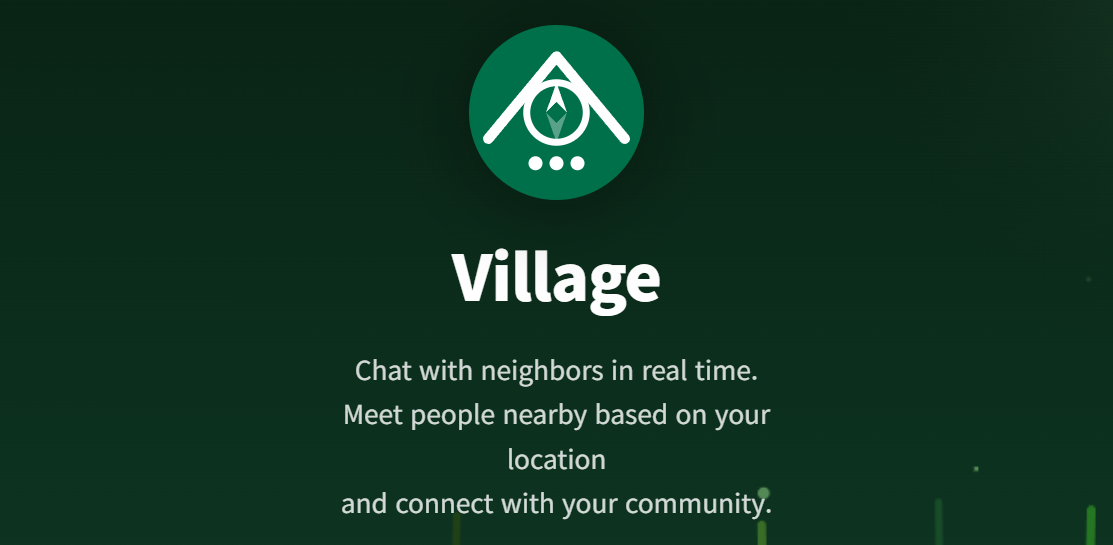
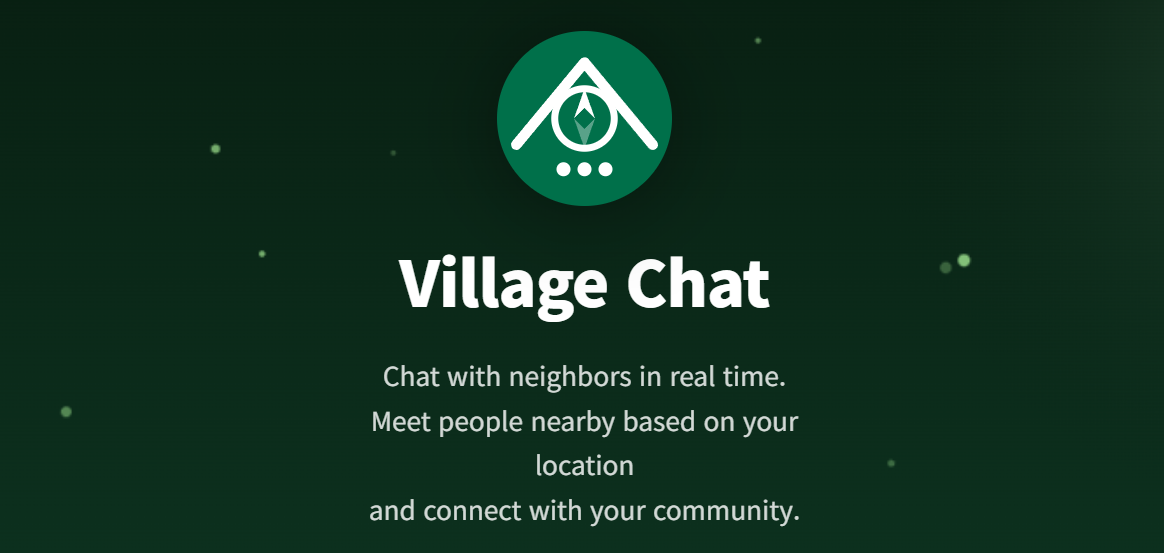
Add files via upload

diff --git a/index.html b/index.html
@@ -977,6 +977,7 @@ let currentLocation = { gu: '', dong: '' };
 let currentRoom = null;
 let chatBackTarget = 'menuScreen';
 let currentRoomMembers = [];
+let currentOnlineCount = 0;
 let unsubscribe = null;
 let lastDate = '';
 let selectedGender = '';
@@ -3068,15 +3069,20 @@ function joinPresence(roomId) {
       const ts = data.ts;
       if (ts && (ts.toDate ? ts.toDate() : new Date(ts)) > cutoff) onlineNicks.add(data.nick);
     });
+    currentOnlineCount = onlineNicks.size;
     const el = document.getElementById('onlineCount');
     if (!el) return;
+    const isInteractive = currentRoom?.isDM || currentRoom?.isCustom;
     const total = currentRoomMembers.length;
-    if (total > 0) {
+    if (isInteractive && total > 0) {
       el.textContent = '👥 ' + onlineNicks.size + '/' + total;
     } else {
       el.textContent = '👥 ' + onlineNicks.size + t('members');
     }
-    renderParticipantList(onlineNicks);
+    el.style.cursor = isInteractive ? 'pointer' : 'default';
+    el.onmouseenter = isInteractive ? function() { this.style.background = 'rgba(255,255,255,0.12)'; } : null;
+    el.onmouseleave = isInteractive ? function() { this.style.background = 'none'; } : null;
+    if (isInteractive) renderParticipantList(onlineNicks);
   });
 }
 
@@ -3154,8 +3160,12 @@ function enterChat(roomId, title, sub, badge, backTarget, isDM = false, isCustom
       if (!initialSnapDone) {
         initialSnapDone = true;
         el.innerHTML = ''; lastDate = '';
-        if (isDM && snap.empty) {
-          window._addDoc(colRef, { type:'system', text: profile.nickname + '님이 입장했습니다', ts: new Date() });
+        if (isDM && !snap.empty) {
+          const enteredKey = 'dnTalk_entered_' + roomId;
+          if (!localStorage.getItem(enteredKey)) {
+            window._addDoc(colRef, { type:'system', text: profile.nickname + '님이 입장했습니다', ts: new Date() });
+          }
+          localStorage.setItem(enteredKey, '1');
         }
       }
       snap.docChanges().forEach(ch => {
@@ -3177,10 +3187,7 @@ function enterChat(roomId, title, sub, badge, backTarget, isDM = false, isCustom
         if (snap.exists() && Array.isArray(snap.data().members)) {
           currentRoomMembers = snap.data().members;
           const el = document.getElementById('onlineCount');
-          if (el && el.textContent) {
-            const onlineStr = el.textContent.replace('👥 ', '').split('/')[0];
-            el.textContent = '👥 ' + onlineStr + '/' + currentRoomMembers.length;
-          }
+          if (el) el.textContent = '👥 ' + currentOnlineCount + '/' + currentRoomMembers.length;
         }
       }).catch(() => {});
     } else {
@@ -3293,6 +3300,7 @@ function leaveDm(dmId, partnerNick, e) {
   const msgs = JSON.parse(localStorage.getItem('dnTalk_lastMsgs') || '{}');
   delete msgs[dmId];
   localStorage.setItem('dnTalk_lastMsgs', JSON.stringify(msgs));
+  localStorage.removeItem('dnTalk_entered_' + dmId);
   showDmList();
 }
 
@@ -3611,7 +3619,7 @@ function showCustomRoomList() {
       item.innerHTML = `
         <div class="dm-item-avatar">${avatarHtml}</div>
         <div class="dm-item-info">
-          <div class="dm-item-name" style="display:flex;align-items:center;gap:4px">${esc(room.name)}${unreadBadge}</div>
+          <div class="dm-item-name" style="display:flex;align-items:center;gap:4px">${esc(room.name)}<span id="cmc_${room.id}" style="font-size:11px;color:var(--c-muted);font-weight:400"></span>${unreadBadge}</div>
           ${subText}
         </div>
         <div class="dm-item-actions">
@@ -3619,6 +3627,13 @@ function showCustomRoomList() {
           <button class="dm-action-btn" title="${t('leave_chat')}" onclick="leaveCustomRoom('${room.id}','${esc(room.name)}',event)">🚪</button>
         </div>`;
       el.appendChild(item);
+      if (window._firebaseReady) {
+        window._getDoc(window._doc(window._db, 'customRooms', room.id)).then(rsnap => {
+          const cnt = rsnap.exists() ? (rsnap.data().members || []).length : 0;
+          const cntEl = document.getElementById('cmc_' + room.id);
+          if (cntEl && cnt > 0) cntEl.textContent = ' · ' + cnt + t('members');
+        }).catch(() => {});
+      }
     });
   }
   showScreen('customRoomListScreen');
@@ -3703,20 +3718,19 @@ async function openPartnerModal(sender, gender, avatar, avatarHtml, nationality 
     document.getElementById('boomUpCount').textContent = ud.boomUp || 0;
     document.getElementById('boomDownCount').textContent = ud.boomDown || 0;
 
-    // 투표 가능 여부 확인
-    const today = new Date().toISOString().slice(0, 10);
+    // 투표 가능 여부 확인 (동일 대상: 기기당 1번 영구, 어떤 대상이든: 1시간에 1번)
+    const lastVoteSnap = await window._getDoc(window._doc(window._db, 'votes', getDeviceId() + '__LAST_VOTE_TIME'));
+    const lastVoteTs = lastVoteSnap.exists() ? (lastVoteSnap.data().ts?.toDate ? lastVoteSnap.data().ts.toDate() : new Date(lastVoteSnap.data().ts)) : null;
+    const hourCooldown = lastVoteTs && (Date.now() - lastVoteTs.getTime()) < 60 * 60 * 1000;
     if (voteSnap.exists()) {
-      const v = voteSnap.data();
-      if (v.date === today) {
-        // 오늘 이미 투표함 → 둘 다 비활성, 투표한 쪽 강조
-        if (v.type === 'up') upBtn.classList.add('voted');
-        else downBtn.classList.add('voted');
-      } else {
-        // 다른 날 투표했으면 오늘은 다시 가능
-        upBtn.disabled = false; downBtn.disabled = false;
-      }
+      // 이미 이 대상에게 투표함 → 영구 비활성, 투표한 쪽 강조
+      if (voteSnap.data().type === 'up') upBtn.classList.add('voted');
+      else downBtn.classList.add('voted');
+    } else if (hourCooldown) {
+      // 1시간 이내 다른 대상에게 투표함 → 비활성 (버튼은 흐리게)
+      upBtn.disabled = true; downBtn.disabled = true;
+      upBtn.title = '1시간에 한 번만 평가할 수 있어요'; downBtn.title = '1시간에 한 번만 평가할 수 있어요';
     } else {
-      // 한 번도 투표 안 함
       upBtn.disabled = false; downBtn.disabled = false;
     }
   } catch(e) {}
@@ -3725,7 +3739,6 @@ async function openPartnerModal(sender, gender, avatar, avatarHtml, nationality 
 async function voteBoom(type) {
   if (!modalTarget || !window._firebaseReady) return;
   const target = modalTarget.nick;
-  const today = new Date().toISOString().slice(0, 10);
   const voteRef = window._doc(window._db, 'votes', getDeviceId() + '__' + target);
   const userRef = window._doc(window._db, 'users', target);
 
@@ -3734,25 +3747,22 @@ async function voteBoom(type) {
   upBtn.disabled = true; downBtn.disabled = true;
 
   try {
-    const voteSnap = await window._getDoc(voteRef);
-    if (voteSnap.exists() && voteSnap.data().date === today) return; // 오늘 이미 투표
+    const lastVoteRef = window._doc(window._db, 'votes', getDeviceId() + '__LAST_VOTE_TIME');
+    const [voteSnap, lastVoteSnap] = await Promise.all([window._getDoc(voteRef), window._getDoc(lastVoteRef)]);
+    if (voteSnap.exists()) return; // 이미 이 대상에게 투표함 (영구)
+    const lastVoteTs = lastVoteSnap.exists() ? (lastVoteSnap.data().ts?.toDate ? lastVoteSnap.data().ts.toDate() : new Date(lastVoteSnap.data().ts)) : null;
+    if (lastVoteTs && (Date.now() - lastVoteTs.getTime()) < 60 * 60 * 1000) return; // 1시간 이내 투표함
 
-    const prev = voteSnap.exists() ? voteSnap.data() : null;
     const userSnap = await window._getDoc(userRef);
     const ud = userSnap.exists() ? userSnap.data() : {};
     let up = ud.boomUp || 0;
     let down = ud.boomDown || 0;
 
-    // 이전 투표 취소
-    if (prev) {
-      if (prev.type === 'up') up = Math.max(0, up - 1);
-      else down = Math.max(0, down - 1);
-    }
-
     if (type === 'up') up++; else down++;
 
     await Promise.all([
-      window._setDoc(voteRef, { date: today, type }),
+      window._setDoc(voteRef, { type, ts: new Date() }),
+      window._setDoc(lastVoteRef, { ts: new Date() }),
       window._setDoc(userRef, { boomUp: up, boomDown: down }, { merge: true }),
     ]);
 